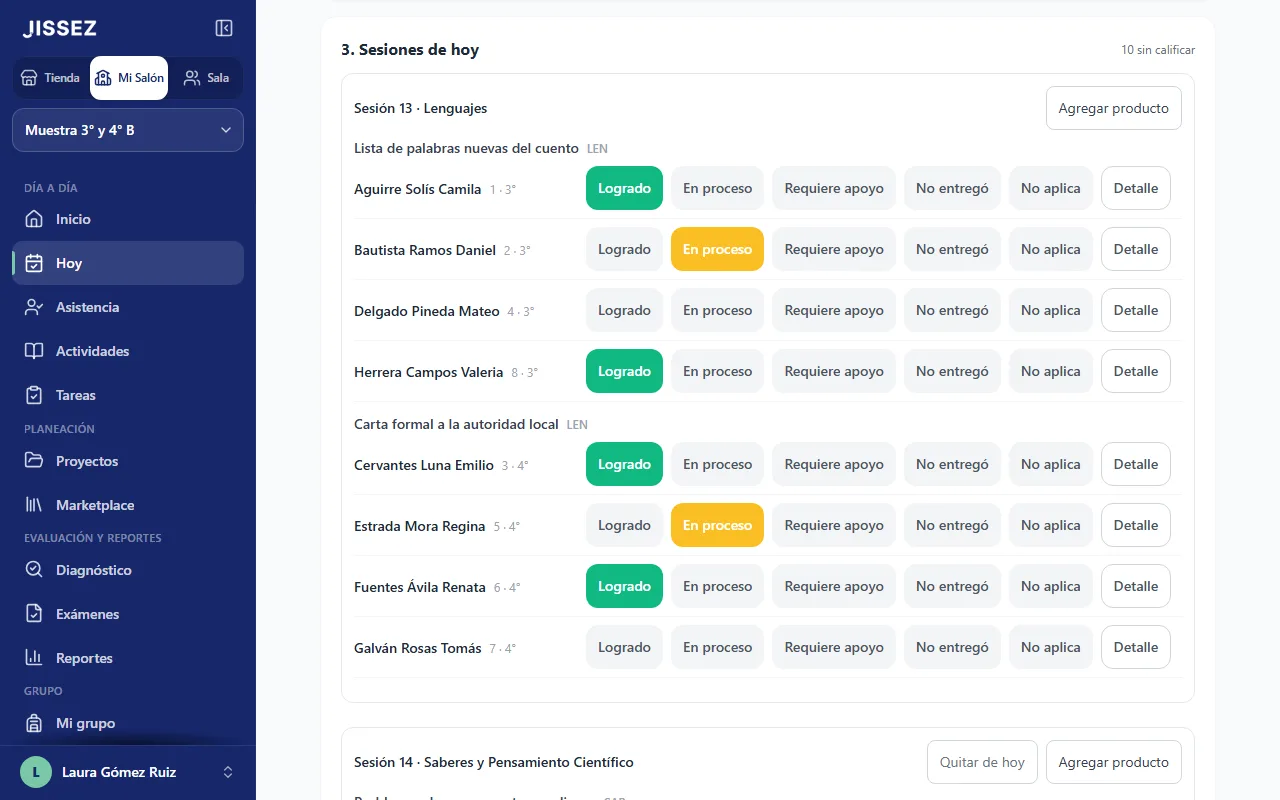
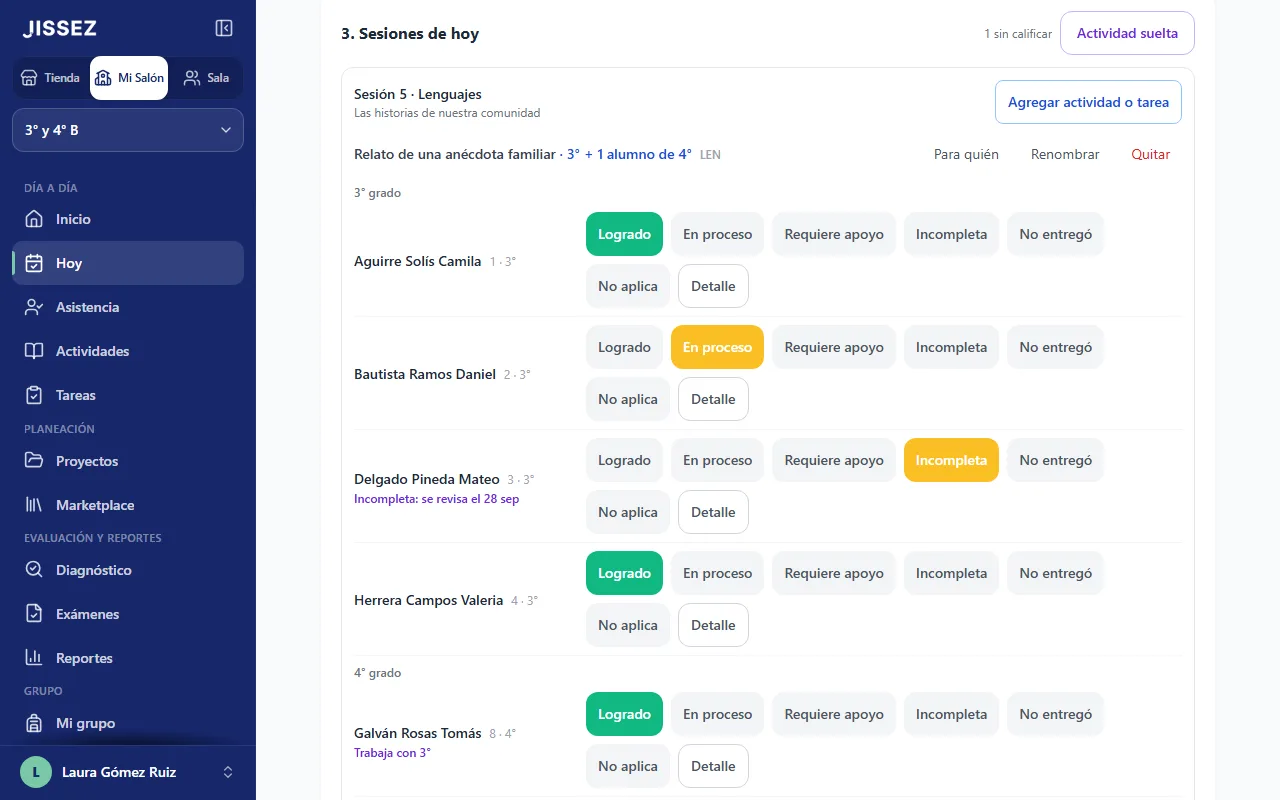
Privacidad y terminos con los textos aprobados por Jorge el 26-sep (examenes y Para quien en los datos del alumno, camara, cola sin senal, cada cuenta ve solo lo suyo, calificacion oficial en el SIGED); presentacion: escala de su grado, en Hoy o en Examenes, familia, Incompleta, comillas latinas, do

diff --git a/tienda/conoce-mi-salon.html b/tienda/conoce-mi-salon.html
@@ -124,7 +124,7 @@
 			<div class="bg-paper border border-line rounded-2xl p-5">
 				<span class="w-11 h-11 rounded-xl bg-gisMenta/25 text-action-dark flex items-center justify-center"><i data-lucide="book-open-check" class="w-5 h-5"></i></span>
 				<h3 class="mt-4 font-bold text-lg text-ink">Hecha para la NEM</h3>
-				<p class="mt-1.5 text-sm text-mute">Campos formativos, PDA por grado y la escala de calificación oficial de la SEP para cada grado.</p>
+				<p class="mt-1.5 text-sm text-mute">Campos formativos, PDA por grado y, para cada alumno, la escala de su grado.</p>
 			</div>
 			<div class="bg-paper border border-line rounded-2xl p-5">
 				<span class="w-11 h-11 rounded-xl bg-gisCoral/25 text-gisCoral flex items-center justify-center"><i data-lucide="layers" class="w-5 h-5"></i></span>
@@ -134,12 +134,12 @@
 			<div class="bg-paper border border-line rounded-2xl p-5">
 				<span class="w-11 h-11 rounded-xl bg-gisCielo/25 text-board flex items-center justify-center"><i data-lucide="wifi-off" class="w-5 h-5"></i></span>
 				<h3 class="mt-4 font-bold text-lg text-ink">Aguanta la mala señal</h3>
-				<p class="mt-1.5 text-sm text-mute">Si la señal se va mientras capturas en Hoy, lo que marcas se guarda en tu tablet y se envía solo al volver.</p>
+				<p class="mt-1.5 text-sm text-mute">Si la señal se va mientras capturas en Hoy o en Exámenes, lo que marcas se guarda en tu tablet y se envía solo al volver.</p>
 			</div>
 			<div class="bg-paper border border-line rounded-2xl p-5">
 				<span class="w-11 h-11 rounded-xl bg-gisAmarillo/25 text-board flex items-center justify-center"><i data-lucide="smartphone" class="w-5 h-5"></i></span>
 				<h3 class="mt-4 font-bold text-lg text-ink">Se instala como app</h3>
-				<p class="mt-1.5 text-sm text-mute">Con el nombre "Jissez MS" en tu pantalla de inicio. Al abrirla, entras directo a Hoy.</p>
+				<p class="mt-1.5 text-sm text-mute">Con el nombre «Jissez MS» en tu pantalla de inicio. Al abrirla, entras directo a Hoy.</p>
 			</div>
 		</div>
 	</div>
@@ -177,7 +177,7 @@
 			<article class="bg-white border border-line rounded-2xl p-5">
 				<span class="w-11 h-11 rounded-xl bg-board/8 text-board flex items-center justify-center"><i data-lucide="file-text" class="w-5 h-5"></i></span>
 				<h3 class="mt-4 font-bold text-lg text-ink">Boleta y reportes</h3>
-				<p class="mt-1.5 text-sm text-mute">Calificación propuesta con la escala oficial, que tú confirmas; boleta imprimible, presentación para la junta y Excel.</p>
+				<p class="mt-1.5 text-sm text-mute">Calificación propuesta de cada alumno con la escala de su grado, que tú confirmas; boleta imprimible, presentación para la junta y Excel.</p>
 			</article>
 			<article class="bg-white border border-line rounded-2xl p-5">
 				<span class="w-11 h-11 rounded-xl bg-board/8 text-board flex items-center justify-center"><i data-lucide="list-todo" class="w-5 h-5"></i></span>
@@ -212,17 +212,17 @@
 				<div>
 					<span class="w-11 h-11 rounded-xl bg-gisMenta/25 text-action-dark flex items-center justify-center"><i data-lucide="list-plus" class="w-5 h-5"></i></span>
 					<h4 class="mt-3 font-bold text-ink">Actividades sueltas</h4>
-					<p class="mt-1.5 text-sm text-mute">¿Improvisaste una actividad o una tarea? Agrégala en Hoy sin proyecto: se guarda en "Actividades del trimestre", cuenta para la boleta y después puedes pasarla a un proyecto del mismo trimestre.</p>
+					<p class="mt-1.5 text-sm text-mute">¿Improvisaste una actividad o una tarea? Agrégala en Hoy sin proyecto: se guarda en «Actividades del trimestre», cuenta para la boleta y después puedes pasarla a un proyecto del mismo trimestre.</p>
 				</div>
 				<div>
 					<span class="w-11 h-11 rounded-xl bg-gisCielo/25 text-board flex items-center justify-center"><i data-lucide="user-check" class="w-5 h-5"></i></span>
 					<h4 class="mt-3 font-bold text-ink">¿Para quién?</h4>
-					<p class="mt-1.5 text-sm text-mute">Cada actividad o tarea es para todo el grupo, para uno o varios grados o para los alumnos que marques, y eliges con qué grado trabajan. Para la boleta, cada alumno sigue en su grado.</p>
+					<p class="mt-1.5 text-sm text-mute">Cada actividad o tarea es para todo el grupo, para uno o varios grados o para los alumnos que marques. Si marcas alumnos, eliges con qué grado trabajan; para la boleta, cada alumno sigue en su grado.</p>
 				</div>
 				<div>
 					<span class="w-11 h-11 rounded-xl bg-gisAmarillo/25 text-board flex items-center justify-center"><i data-lucide="hourglass" class="w-5 h-5"></i></span>
 					<h4 class="mt-3 font-bold text-ink">Incompleta</h4>
-					<p class="mt-1.5 text-sm text-mute">Si un alumno no terminó en clase, márcala Incompleta: Hoy te la muestra el siguiente día de clase, según el calendario de la SEP y los ajustes de tu grupo, y al revisarla vale el nivel que logró. Las tareas, igual: se revisan el siguiente día de clase, salvo que elijas otro día.</p>
+					<p class="mt-1.5 text-sm text-mute">Si un alumno no terminó una actividad en clase, márcala Incompleta: Hoy te la muestra el siguiente día de clase, según el calendario de la SEP y los ajustes de tu grupo, y al revisarla vale el nivel que logró. Las tareas, igual: se revisan el siguiente día de clase, salvo que elijas otro día.</p>
 				</div>
 			</div>
 		</div>
@@ -231,11 +231,11 @@
 		<div class="mt-16 lg:mt-20 space-y-16 lg:space-y-20">
 			<div class="reveal grid lg:grid-cols-[1.15fr_.85fr] gap-8 lg:gap-12 items-center">
 				<figure class="ms-captura">
-					<img src="../presentacion/img/ms-calificar-1280.webp" srcset="../presentacion/img/ms-calificar-640.webp 640w, ../presentacion/img/ms-calificar-1280.webp 1280w" sizes="(min-width: 1024px) 640px, 100vw" width="1280" height="800" loading="lazy" decoding="async" alt="Sesiones de hoy en Mi Salón: cada alumno con los botones Logrado, En proceso y Requiere apoyo en un trabajo de su grado">
+					<img src="../presentacion/img/ms-calificar-1280.webp" srcset="../presentacion/img/ms-calificar-640.webp 640w, ../presentacion/img/ms-calificar-1280.webp 1280w" sizes="(min-width: 1024px) 640px, 100vw" width="1280" height="800" loading="lazy" decoding="async" alt="Sesiones de hoy en Mi Salón: cada alumno con los botones Logrado, En proceso, Requiere apoyo e Incompleta en el trabajo de su grado, el botón Para quién y un alumno de 4° que trabaja con 3°">
 				</figure>
 				<div>
 					<h3 class="font-black text-ink tracking-tight text-[clamp(1.5rem,2.6vw,2rem)] leading-tight">Califica mientras recorres las bancas.</h3>
-					<p class="mt-3 text-lg text-mute">En "Sesiones de hoy" aparece un trabajo por grado de cada sesión, que puedes renombrar, y las actividades que agregues en plena clase. Tocas Logrado, En proceso o Requiere apoyo, y cada calificación deja evidencia en los PDA que evalúa. Se guarda al tocar, sin botón de guardar.</p>
+					<p class="mt-3 text-lg text-mute">En «Sesiones de hoy» aparece un trabajo por grado de cada sesión, que puedes renombrar, y las actividades que agregues en plena clase. Tocas Logrado, En proceso o Requiere apoyo, y cada calificación deja evidencia en los PDA que evalúa. Se guarda al tocar, sin botón de guardar.</p>
 				</div>
 			</div>
 			<div class="reveal grid lg:grid-cols-[.85fr_1.15fr] gap-8 lg:gap-12 items-center">
@@ -320,16 +320,16 @@
 					<h4 class="font-bold flex items-center gap-2"><i data-lucide="tablet" class="w-5 h-5 text-gisMenta"></i> Android</h4>
 					<ol class="mt-3 space-y-2 text-[15px] text-white/85 list-decimal pl-5">
 						<li>En Chrome o Samsung Internet, entra a Mi Salón con tu cuenta.</li>
-						<li>En Inicio, al final, toca "Instalar la app" y sigue los pasos. También está en el menú de tu cuenta.</li>
-						<li>Abre el ícono "Jissez MS". Si lo mantienes presionado, salen sus atajos: "Pasar lista" abre la asistencia de hoy, "Calificar trabajos" abre las sesiones de hoy y "Reportes", los reportes del grupo.</li>
+						<li>En Inicio, al final, toca «Instalar la app» y sigue los pasos. También está en el menú de tu cuenta.</li>
+						<li>Abre el ícono «Jissez MS». Si lo mantienes presionado, salen sus atajos: «Pasar lista» abre la asistencia de hoy, «Calificar trabajos» abre las sesiones de hoy y «Reportes», los reportes del grupo.</li>
 					</ol>
 				</div>
 				<div class="rounded-2xl bg-white/[.06] border border-white/15 p-5">
 					<h4 class="font-bold flex items-center gap-2"><i data-lucide="share" class="w-5 h-5 text-gisMenta"></i> iPad o iPhone</h4>
 					<ol class="mt-3 space-y-2 text-[15px] text-white/85 list-decimal pl-5">
 						<li>En Safari, abre jissez.com/salon/hoy.</li>
-						<li>Toca Compartir (el cuadro con la flecha hacia arriba) y elige "Agregar a inicio" o "Agregar a pantalla de inicio", según tu versión. Si aparece "Abrir como app web", déjalo activado.</li>
-						<li>Abre "Jissez MS" desde tu pantalla de inicio e inicia sesión una vez dentro de la app.</li>
+						<li>Toca Compartir (el cuadro con la flecha hacia arriba) y elige «Agregar a inicio» o «Agregar a pantalla de inicio», según tu versión. Si aparece «Abrir como app web», déjalo activado.</li>
+						<li>Abre «Jissez MS» desde tu pantalla de inicio e inicia sesión una vez dentro de la app.</li>
 					</ol>
 				</div>
 			</div>
@@ -401,7 +401,7 @@
 	<div class="max-w-content mx-auto px-4 sm:px-6 py-10 flex flex-col sm:flex-row sm:items-center gap-4">
 		<span class="w-12 h-12 rounded-2xl bg-board/8 text-board flex items-center justify-center shrink-0"><i data-lucide="lock" class="w-6 h-6"></i></span>
 		<p class="text-ink text-[16px] leading-relaxed">
-			<strong>En Mi Salón, cada cuenta ve solo lo suyo:</strong> los datos de tu grupo se abren con tu cuenta y otras maestras no los ven. Al revisar un examen con la cámara, la foto de la hoja se lee en tu tablet y no se sube; solo se guardan las respuestas. Lo que Mi Salón prepara para una familia solo lleva a su hija o hijo. La imagen y el texto de las listas de cooperación y materiales no llevan nombres, y la presentación para la junta no los muestra salvo que tú lo actives. El rol de aseo sí lleva los nombres de los alumnos a quienes les toca: tú decides con quién lo compartes.
+			<strong>En Mi Salón, cada cuenta ve solo lo suyo:</strong> los datos de tu grupo se abren con tu cuenta y tus colegas no los ven. Al revisar un examen con la cámara, la foto de la hoja se lee en tu tablet y no se sube; solo se guardan las respuestas. La boleta, el reporte y los mensajes que Mi Salón prepara para una familia solo llevan a su hija o hijo. La imagen y el texto de las listas de cooperación y materiales no llevan nombres, y la presentación para la junta no los muestra salvo que tú lo actives. El rol de aseo sí lleva los nombres de los alumnos a quienes les toca: tú decides con quién lo compartes.
 			<a href="privacidad.html" class="inline-flex items-center min-h-[44px] font-semibold text-board underline underline-offset-4 hover:no-underline">Aviso de privacidad</a>
 		</p>
 	</div>
@@ -421,15 +421,15 @@
 			</details>
 			<details class="reveal bg-white border border-line rounded-2xl px-5">
 				<summary class="flex items-center justify-between gap-4 py-5 font-bold text-ink text-lg">¿Sirve para grupos multigrado? <i data-lucide="plus" class="faq-plus w-5 h-5 text-board shrink-0"></i></summary>
-				<p class="pb-5 text-mute leading-relaxed">Sí. Un grupo puede tener varios grados. Cada actividad es para todo el grupo, para uno o varios grados o para los alumnos que marques; así, un alumno que va a otro ritmo puede trabajar con los PDA de otro grado. Para la boleta sigue en su grado, con la escala de su grado.</p>
+				<p class="pb-5 text-mute leading-relaxed">Sí. Un grupo puede tener varios grados. Cada actividad es para todo el grupo, para uno o varios grados o para los alumnos que marques. Si marcas alumnos, eliges con qué grado trabajan: así, un alumno que va a otro ritmo puede trabajar con los PDA de otro grado. Para la boleta sigue en su grado, con la escala de su grado.</p>
 			</details>
 			<details class="reveal bg-white border border-line rounded-2xl px-5">
 				<summary class="flex items-center justify-between gap-4 py-5 font-bold text-ink text-lg">¿En qué aparatos funciona? <i data-lucide="plus" class="faq-plus w-5 h-5 text-board shrink-0"></i></summary>
-				<p class="pb-5 text-mute leading-relaxed">En el navegador de tu tablet, computadora o celular. Está pensada para la tablet en horizontal, con botones grandes. En Android, iPad y iPhone puedes instalarla como app ("Jissez MS").</p>
+				<p class="pb-5 text-mute leading-relaxed">En el navegador de tu tablet, computadora o celular. Está pensada para la tablet en horizontal, con botones grandes. En Android, iPad y iPhone puedes instalarla como app («Jissez MS»).</p>
 			</details>
 			<details class="reveal bg-white border border-line rounded-2xl px-5">
 				<summary class="flex items-center justify-between gap-4 py-5 font-bold text-ink text-lg">¿Quién ve mis datos y los de mis alumnos? <i data-lucide="plus" class="faq-plus w-5 h-5 text-board shrink-0"></i></summary>
-				<p class="pb-5 text-mute leading-relaxed">En Mi Salón, solo tu cuenta: la base de datos le da a cada cuenta únicamente lo suyo, así que otras maestras no ven tu grupo. Jissez los guarda para darte el servicio y no los usa para publicidad. No pedimos la CURP. Las fotos de las hojas de respuestas se leen en tu tablet y no se suben. Los detalles están en el <a href="privacidad.html" class="font-semibold text-board underline underline-offset-4">aviso de privacidad</a>.</p>
+				<p class="pb-5 text-mute leading-relaxed">En Mi Salón, solo tu cuenta: la base de datos le da a cada cuenta únicamente lo suyo, así que tus colegas no ven tu grupo. Jissez los guarda para darte el servicio y no los usa para publicidad. No pedimos la CURP. Las fotos de las hojas de respuestas se leen en tu tablet y no se suben. Los detalles están en el <a href="privacidad.html" class="font-semibold text-board underline underline-offset-4">aviso de privacidad</a>.</p>
 			</details>
 			<details class="reveal bg-white border border-line rounded-2xl px-5">
 				<summary class="flex items-center justify-between gap-4 py-5 font-bold text-ink text-lg">¿Necesito comprar planeaciones? <i data-lucide="plus" class="faq-plus w-5 h-5 text-board shrink-0"></i></summary>
@@ -441,7 +441,7 @@
 			</details>
 			<details class="reveal bg-white border border-line rounded-2xl px-5">
 				<summary class="flex items-center justify-between gap-4 py-5 font-bold text-ink text-lg">¿La calificación la pone la app? <i data-lucide="plus" class="faq-plus w-5 h-5 text-board shrink-0"></i></summary>
-				<p class="pb-5 text-mute leading-relaxed">No. Mi Salón la propone con lo que capturaste y la escala oficial; tú la revisas y la confirmas. Sin tu confirmación la boleta no se cierra. Es un complemento de la boleta oficial (SIGED), no la sustituye.</p>
+				<p class="pb-5 text-mute leading-relaxed">No. Mi Salón propone la de cada alumno con lo que capturaste y la escala de su grado; tú la revisas y la confirmas. Sin tu confirmación la boleta no se cierra. Es un complemento de la boleta oficial (SIGED), no la sustituye.</p>
 			</details>
 		</div>
 	</div>

diff --git a/tienda/privacidad.html b/tienda/privacidad.html
@@ -46,7 +46,7 @@
 		<p><strong>De usted (docente o comprador):</strong> nombre, correo electrónico, contraseña (guardada cifrada), historial de compras y, si usa proyectos personalizados, lo que escriba en el formulario de pedido. Si usa Mi Salón, además: estado donde da clases, escuela, grupos y grados que atiende y, si lo indica, si prefiere el trato de profesora o profesor. Si solicita factura, los datos fiscales que nos proporcione. Si pide que le avisemos cuando abra una sección de Jissez (por ejemplo, la Sala de Maestros), guardamos su cuenta, esa petición y la fecha en que la hizo. Como en cualquier sitio web, nuestros proveedores reciben la dirección IP de su conexión al cargar las páginas.</p>
 		<p><strong>De sus alumnos y sus familias, solo si usa Mi Salón.</strong> Usted, como docente, es quien decide qué datos de sus alumnos captura y para qué; Jissez solo los guarda y los procesa por encargo suyo, para darle la plataforma. Estos datos son:</p>
 		<ul>
-			<li><strong>Del alumno:</strong> nombre, grado, número de lista, asistencia, calificaciones, evidencias de trabajo, participación y conducta, diagnóstico (cuaderno, lectura y matemáticas), las observaciones que usted escriba y, si usted los captura, su fecha de nacimiento y su género (niña, niño o "prefiero no decir").</li>
+			<li><strong>Del alumno:</strong> nombre, grado, número de lista, asistencia, calificaciones, evidencias de trabajo, participación y conducta, diagnóstico (cuaderno, lectura y matemáticas), las observaciones que usted escriba, las respuestas y los resultados de los exámenes que usted captura (incluido si no presentó), a qué actividades se le asignó ("¿Para quién?") y, si usted los captura, su fecha de nacimiento y su género (niña, niño o "prefiero no decir").</li>
 			<li><strong>De su madre, padre o tutor, si usted los captura:</strong> nombre y número de teléfono.</li>
 			<li><strong>Incidencias del salón:</strong> lo que usted registre sobre un suceso (asunto, fecha y hora, alumnos involucrados, descripción y acuerdos).</li>
 			<li><strong>De la escuela de cada grupo:</strong> el nombre de la escuela y el del director o directora, si usted los captura.</li>
@@ -54,6 +54,7 @@
 			<li><strong>Listas de cooperación y materiales del grupo, si usted las usa:</strong> lo que usted registre de cada alumno en cada lista: si entregó (por ejemplo, un material o un permiso firmado), un texto breve (por ejemplo, una talla) y cuánto aportó en pesos.</li>
 		</ul>
 		<p>Todos estos datos son opcionales, salvo el nombre y el grado del alumno. No pedimos la CURP.</p>
+		<p><strong>Lo que se procesa y se guarda en su dispositivo.</strong> Si revisa las hojas de respuestas con la cámara, la imagen se procesa solo en su dispositivo: no se guarda ni se envía a Jissez; solo se guardan las respuestas leídas. Si pierde la señal mientras captura en Hoy o en Exámenes, lo capturado se guarda temporalmente en su dispositivo, ligado a su cuenta, y se borra al enviarse. Si comparte el dispositivo, cierre sesión al terminar.</p>
 		<p><strong>Quién es responsable de los datos de sus alumnos.</strong> Usted es responsable de los datos de sus alumnos y de sus familias que captura en Mi Salón: los obtiene como parte de su labor docente y decide para qué los usa. Jissez actúa como encargado: los guarda y los procesa solo para prestarle el servicio, siguiendo sus instrucciones, y no los usa para nada más. Le recomendamos capturar solo lo que necesite para su trabajo con el grupo y avisar a las familias que lleva este registro.</p>
 		<p><strong>No recabamos datos de tarjeta</strong> (los procesa Mercado Pago) <strong>ni datos sensibles.</strong> Le pedimos no escribir en Mi Salón información de salud, discapacidad, diagnósticos médicos o psicológicos, religión, origen étnico, situación familiar delicada u otros datos sensibles de sus alumnos o de sus familias. En las incidencias y observaciones escriba hechos concretos del salón.</p>
 
@@ -62,7 +63,7 @@
 		<p>En Mi Salón, además: mostrarle la ficha de cada alumno; mostrarle los próximos cumpleaños de sus alumnos (en Calendario y en Inicio), con la fecha de nacimiento que usted captura; abrir una conversación de WhatsApp con la madre, padre o tutor cuando usted toca el botón "Escribir por WhatsApp" (Mi Salón no envía mensajes por su cuenta: solo abre WhatsApp en su dispositivo con el número y un saludo que usted puede cambiar antes de enviarlo); contar cuántas niñas y cuántos niños tiene su grupo; generar el documento de una incidencia para que usted lo imprima y lo firmen usted, el director o directora y la familia; y generar el rol de aseo como imagen, texto o impresión para que usted lo comparta. La imagen del rol de aseo lleva los nombres de los alumnos: usted decide con quién la comparte.</p>
 		<p>También, llevar las listas de cooperación y materiales del grupo, para organizar el salón. En la imagen y el texto de una lista para las familias, <strong>Mi Salón no pone nombres de alumnos</strong>: solo cuántos entregaron o completaron su aportación, cuánto se ha reunido y cuánto falta. La descripción de la lista y los nombres de sus columnas son texto que usted escribe y salen tal cual en esa imagen y ese texto; le pedimos no escribir en ellos nombres de alumnos. Si usted quiere recordarle algo a una familia, el botón "Recordar por WhatsApp" abre en su dispositivo una conversación privada de WhatsApp con esa familia, con un mensaje que usted puede cambiar antes de enviarlo. La versión impresa con nombres es solo para usted.</p>
 		<p><strong>Finalidad secundaria</strong> (puede oponerse sin que afecte el servicio, escribiendo a <a href="mailto:soporte@jissez.com" class="font-semibold" style="color:#1e3a8a">soporte@jissez.com</a>): enviarle novedades o promociones.</p>
-		<p>No vendemos, no rentamos ni compartimos sus datos, ni los de sus alumnos o sus familias, con nadie para fines propios, y no los usamos para publicidad. Solo usted, con su cuenta, puede verlos en Mi Salón.</p>
+		<p>No vendemos, no rentamos ni compartimos sus datos, ni los de sus alumnos o sus familias, con nadie para fines propios, y no los usamos para publicidad. En Mi Salón, cada cuenta ve solo lo suyo. Jissez no los consulta, salvo que usted nos pida ayuda o lo exija la ley.</p>
 
 		<h2>4. Con quién se comparten</h2>
 		<p>Solo con proveedores que nos ayudan a operar el servicio y que no pueden usarlos para otros fines:</p>
@@ -78,7 +79,7 @@
 		<p>Los datos de sus alumnos y de sus familias (incluidos la ficha, las incidencias, el calendario, el rol de aseo y las listas) no se envían a Meta ni a Anthropic, salvo las frases sin nombre que se describen arriba, en este mismo punto, para la redacción de boletas con inteligencia artificial. Cuando usted toca "Escribir por WhatsApp" o "Recordar por WhatsApp", o comparte el rol de aseo o la imagen de una lista, es su propio dispositivo el que abre WhatsApp; Jissez no le envía a WhatsApp ni el número del tutor, ni el mensaje, ni la imagen.</p>
 
 		<h2>5. Tecnologías de rastreo</h2>
-		<p>El Sitio guarda en su navegador lo necesario para mantener su sesión iniciada. En la tienda usamos el <strong>píxel de Meta</strong> (Facebook) para medir nuestros anuncios; puede colocar cookies de Meta. Las pantallas de Mi Salón <strong>no</strong> usan el píxel; las páginas de la tienda sí, incluida la de inicio de sesión por la que se entra a Mi Salón. Puede bloquear esas cookies desde su navegador sin que el Sitio deje de funcionar, u oponerse escribiéndonos.</p>
+		<p>El Sitio guarda en su navegador lo necesario para mantener su sesión iniciada y, además, lo que usted capture sin señal en Mi Salón, solo hasta que se envía (ver punto 2). En la tienda usamos el <strong>píxel de Meta</strong> (Facebook) para medir nuestros anuncios; puede colocar cookies de Meta. Las pantallas de Mi Salón <strong>no</strong> usan el píxel; las páginas de la tienda sí, incluida la de inicio de sesión por la que se entra a Mi Salón. Puede bloquear esas cookies desde su navegador sin que el Sitio deje de funcionar, u oponerse escribiéndonos.</p>
 
 		<h2>6. Sus derechos (ARCO)</h2>
 		<p>Puede pedir <strong>Acceso</strong> a sus datos, su <strong>Rectificación</strong>, su <strong>Cancelación</strong> u <strong>Oposición</strong> a su uso, así como revocar su consentimiento, escribiendo a <a href="mailto:soporte@jissez.com" class="font-semibold" style="color:#1e3a8a">soporte@jissez.com</a> con su nombre, el correo de su cuenta y lo que solicita. Le pediremos acreditar su identidad (o su representación, si actúa en nombre de otra persona) antes de entregar o cambiar datos. Le responderemos en un máximo de 20 días y, si procede, lo haremos efectivo en los 15 días siguientes.</p>

diff --git a/pruebas/conoce-mi-salon-textos.test.js b/pruebas/conoce-mi-salon-textos.test.js
@@ -14,6 +14,10 @@
 	- Instalar en iPhone/iPad: "Abrir como app web" solo si aparece; atajos de Android con su
 	  nombre real (salon.webmanifest) y lo que abren (js/hoy.js irASeccion).
 	- Funciones nuevas nombradas en la página: existen en el código.
+	- B3 (2026-09-26): "la escala de su grado", mala señal "en Hoy o en Exámenes", la boleta de una
+	  familia solo lleva a su hija o hijo, Incompleta de una actividad, "eliges con qué grado
+	  trabajan" solo al marcar alumnos, "docentes" (nunca "maestra" o "maestro") y comillas
+	  latinas; y los textos aprobados del aviso de privacidad y los términos.
 
 	node pruebas/conoce-mi-salon-textos.test.js
 */
@@ -91,9 +95,9 @@ ok("la página pinta el encabezado desde ConoceMiSalon.encabezado", /ConoceMiSal
 
 // ── 6. Instalar: iOS exacto y atajos con su nombre real ──────────────────────
 ok("iOS: 'Abrir como app web' solo si aparece; 'Agregar a inicio'", [
-	/Si aparece "Abrir como app web", déjalo activado\./.test(texto),
-	/deja activado "Abrir como app web"/.test(texto),
-	/"Agregar a inicio" o "Agregar a pantalla de inicio"/.test(texto),
+	/Si aparece «Abrir como app web», déjalo activado\./.test(texto),
+	/deja activado «Abrir como app web»/.test(texto),
+	/«Agregar a inicio» o «Agregar a pantalla de inicio»/.test(texto),
 	/inicia sesión una vez dentro de la app/.test(texto),
 ], [true, false, true, true]);
 ok("respaldo: la hoja de instrucciones de la app dice lo mismo ('Si aparece')", /Si aparece, deja activado <strong>Abrir como app web<\/strong>/.test(leer("js/app-instalada.js")), true);
@@ -105,9 +109,9 @@ ok("manifest: los tres atajos", atajos, [
 	{ nombre: "Reportes", hash: null, ruta: "/salon/reportes" },
 ]);
 ok("la página nombra cada atajo como el manifest y dice qué abre", [
-	/"Pasar lista" abre la asistencia de hoy/.test(texto),
-	/"Calificar trabajos" abre las sesiones de hoy/.test(texto),
-	/"Reportes", los reportes del grupo/.test(texto),
+	/«Pasar lista» abre la asistencia de hoy/.test(texto),
+	/«Calificar trabajos» abre las sesiones de hoy/.test(texto),
+	/«Reportes», los reportes del grupo/.test(texto),
 ], [true, true, true]);
 const hoyHtml = leer("hoy.html");
 ok("respaldo: Hoy salta a #asistencia y #sesiones (irASeccion) y esas secciones son Asistencia y Sesiones de hoy", [
@@ -118,8 +122,8 @@ ok("respaldo: Hoy salta a #asistencia y #sesiones (irASeccion) y esas secciones 
 
 // ── 7. Funciones nuevas nombradas en la página: existen en el código ─────────
 ok("la página nombra actividades sueltas, ¿Para quién?, Incompleta y Actividades del trimestre", [
-	/Actividades sueltas/.test(texto), /¿Para quién\?/.test(texto), /márcala Incompleta/.test(texto), /"Actividades del trimestre"/.test(texto),
-	/pasarla a un proyecto del mismo trimestre/.test(texto), /eliges con qué grado trabajan/.test(texto),
+	/Actividades sueltas/.test(texto), /¿Para quién\?/.test(texto), /márcala Incompleta/.test(texto), /«Actividades del trimestre»/.test(texto),
+	/pasarla a un proyecto del mismo trimestre/.test(texto), /Si marcas alumnos, eliges con qué grado trabajan/.test(texto),
 ], [true, true, true, true, true, true]);
 const hoyJs = leer("js/hoy.js");
 ok("respaldo: Hoy agrega actividades sueltas y las pasa a un proyecto", [/id="btnSuelta"[^>]*>Actividad suelta</.test(hoyHtml), /Pasar a un proyecto/.test(hoyJs)], [true, true]);
@@ -139,6 +143,54 @@ ok("respaldo: exámenes con dos caminos y cuatro tipos de pregunta", [
 	/opción múltiple \(sugerida: se revisa sola\), verdadero o falso,\s*completar y abierta/.test(leer("js/examen-propio.js")),
 	/Capturar tocando/.test(leer("js/examen-camara.js")),
 ], [true, true, true, true]);
+
+// ── 8. B3 (textos aprobados por Jorge el 2026-09-26) ─────────────────────────
+// Todo el texto visible de la página (cuerpo, con pie; sin comentarios, scripts, estilos ni atributos)
+const visible = sinComentarios.split(/<body[^>]*>/)[1].replace(/<script[\s\S]*?<\/script>|<style[\s\S]*?<\/style>/g, " ")
+	.replace(/<[^>]+>/g, " ").replace(/\s+/g, " ");
+ok("escala: ninguna 'escala oficial' y 'la escala de su grado' en las tres frases (más la de multigrado)", [
+	(visible.match(/escala oficial de la SEP/g) || []).length, (visible.match(/escala (de calificación )?oficial/g) || []).length,
+	(visible.match(/escala de su grado/g) || []).length,
+	/PDA por grado y, para cada alumno, la escala de su grado\./.test(visible),
+	/Calificación propuesta de cada alumno con la escala de su grado, que tú confirmas;/.test(visible),
+	/Mi Salón propone la de cada alumno con lo que capturaste y la escala de su grado;/.test(visible),
+], [0, 0, 4, true, true, true]);
+ok("mala señal: la tarjeta dice 'en Hoy o en Exámenes'", /Si la señal se va mientras capturas en Hoy o en Exámenes, lo que marcas se guarda en tu tablet/.test(visible), true);
+ok("familias: la boleta, el reporte y los mensajes solo llevan a su hija o hijo", [
+	/La boleta, el reporte y los mensajes que Mi Salón prepara para una familia solo llevan a su hija o hijo\./.test(visible),
+	/Lo que Mi Salón prepara para una familia solo lleva a su hija o hijo/.test(visible),
+], [true, false]);
+ok("Incompleta: 'no terminó una actividad en clase'", /Si un alumno no terminó una actividad en clase, márcala Incompleta/.test(visible), true);
+// "¿Con qué grado trabajan?" solo sale en el modo de alumnos de ¿Para quién? (js/hoy.js construirParaQuien)
+const conGrado = visible.split(/(?<=[.?!])\s+/).filter((o) => /eliges con qué grado trabajan/.test(o));
+ok("'eliges con qué grado trabajan' solo en el modo de alumnos", [conGrado.length, conGrado.every((o) => /^Si marcas alumnos, eliges con qué grado trabajan/.test(o))], [2, true]);
+ok("respaldo: el grado con que trabajan solo se muestra con 'Alumnos que elijo'", /data-para='alumnos'[\s\S]{0,200}¿Con qué grado trabajan\?/.test(hoyJs) && /a\.classList\.toggle\("hidden", m !== "alumnos"\)/.test(hoyJs), true);
+ok("docentes: ni 'maestra' ni 'maestro' en el texto visible", visible.match(/\bmaestr[oa]s?\b/gi) || [], []);
+ok("comillas: solo latinas en el texto visible, parejas", [
+	(visible.match(/["“”]/g) || []).length, (visible.match(/«/g) || []).length === (visible.match(/»/g) || []).length, (visible.match(/«/g) || []).length > 0,
+], [0, true, true]);
+
+// Aviso de privacidad y términos (textos legales aprobados por Jorge el 2026-09-26)
+const privacidad = leer("tienda/privacidad.html");
+const terminos = leer("tienda/terminos.html");
+ok("privacidad: exámenes y ¿Para quién? entre los datos del alumno", [
+	/las respuestas y los resultados de los exámenes que usted captura \(incluido si no presentó\)/.test(privacidad),
+	/a qué actividades se le asignó \("¿Para quién\?"\)/.test(privacidad),
+], [true, true]);
+ok("privacidad: cámara y captura sin señal en el dispositivo", [
+	/Si revisa las hojas de respuestas con la cámara, la imagen se procesa solo en su dispositivo: no se guarda ni se envía a Jissez; solo se guardan las respuestas leídas\./.test(privacidad),
+	/Si pierde la señal mientras captura en Hoy o en Exámenes, lo capturado se guarda temporalmente en su dispositivo, ligado a su cuenta, y se borra al enviarse\. Si comparte el dispositivo, cierre sesión al terminar\./.test(privacidad),
+], [true, true]);
+ok("privacidad: el navegador guarda la sesión y lo capturado sin señal (ya no 'solo la sesión')", [
+	/lo necesario para mantener su sesión iniciada\./.test(privacidad),
+	/lo necesario para mantener su sesión iniciada y, además, lo que usted capture sin señal en Mi Salón/.test(privacidad),
+], [false, true]);
+ok("privacidad: cada cuenta ve solo lo suyo; Jissez no los consulta", [
+	/Solo usted, con su cuenta, puede verlos en Mi Salón\./.test(privacidad),
+	/En Mi Salón, cada cuenta ve solo lo suyo\. Jissez no los consulta, salvo que usted nos pida ayuda o lo exija la ley\./.test(privacidad),
+], [false, true]);
+ok("términos: la calificación oficial es la que se registra en el SIGED", /Las calificaciones que propone Mi Salón son una propuesta; la oficial es la que usted confirma y registra en el SIGED\./.test(terminos.split("<h2>10.")[1].split("<h2>11.")[0]), true);
+ok("fecha de actualización de los dos textos legales", [/Última actualización: 26 de septiembre de 2026/.test(privacidad), /Última actualización: 26 de septiembre de 2026/.test(terminos)], [true, true]);
 
 console.log(fallos === 0 ? "\nTODAS PASAN" : "\n" + fallos + " FALLAS");
 process.exit(fallos ? 1 : 0);

diff --git a/tienda/terminos.html b/tienda/terminos.html
@@ -34,7 +34,7 @@
 			<span class="text-ink font-medium">Términos y Condiciones</span>
 		</div>
 		<h1 class="font-black text-ink text-[clamp(1.8rem,3.5vw,2.6rem)] tracking-tight leading-tight">Términos y Condiciones de Uso</h1>
-		<p class="mt-2 text-mute">Última actualización: 25 de septiembre de 2026</p>
+		<p class="mt-2 text-mute">Última actualización: 26 de septiembre de 2026</p>
 	</div>
 </div>
 
@@ -88,7 +88,7 @@
 		<p>Usted es responsable de la confidencialidad de sus credenciales y de la actividad en su cuenta.</p>
 
 		<h2>10. Mi Salón y los datos de sus alumnos</h2>
-		<p>Mi Salón es una herramienta personal del docente para organizar su trabajo con su grupo. No es un sistema oficial de la escuela ni de la SEP.</p>
+		<p>Mi Salón es una herramienta personal del docente para organizar su trabajo con su grupo. No es un sistema oficial de la escuela ni de la SEP. Las calificaciones que propone Mi Salón son una propuesta; la oficial es la que usted confirma y registra en el SIGED.</p>
 		<p>Usted es responsable de los datos personales de sus alumnos y de sus familias que registra en Mi Salón: los obtiene como parte de su labor docente y decide para qué los usa. Jissez los trata solo como encargado: los guarda y los procesa únicamente para prestarle el servicio, siguiendo sus instrucciones, y no los usa para nada más. Los detalles están en nuestro <a href="privacidad.html" class="font-semibold" style="color:#1e3a8a">Aviso de Privacidad</a>.</p>
 
 		<h2>11. Modificaciones</h2>

diff --git a/pruebas/presentaciones.test.js b/pruebas/presentaciones.test.js
@@ -111,7 +111,7 @@ ok("la página pinta el beneficio desde ConoceMiSalon.beneficio y oculta la tarj
 const textoMs = htmlMs.replace(/<[^>]+>/g, " ").replace(/\s+/g, " ");
 ok("el titular ya no dice 'sin Excel' (la página ofrece exportar a Excel)", [/sin Excel/i.test(textoMs), /\bExcel\b/.test(textoMs)], [false, true]);
 ok("calendario: 'los ajustes de tu grupo', no 'de tu escuela'", [/ajustes de tu grupo/.test(textoMs), /ajustes de tu escuela/.test(textoMs)], [true, false]);
-ok("instalar: 'y sigue los pasos', no 'y acepta'", [/"Instalar la app" y sigue los pasos/.test(htmlMs), /y acepta\b/.test(textoMs)], [true, false]);
+ok("instalar: 'y sigue los pasos', no 'y acepta'", [/«Instalar la app» y sigue los pasos/.test(htmlMs), /y acepta\b/.test(textoMs)], [true, false]);
 // 2026-09-26 (Jorge): la importación de planeaciones de Jissez a Mi Salón va después del piloto;
 // hoy solo "próximamente" (pruebas/conoce-mi-salon-textos.test.js fija los textos nuevos)
 ok("no afirma que el catálogo de planeaciones está incluido", [/(puedes|o) usar planeaciones de Jissez/.test(textoMs), /import(a|as|ar) (uno|un proyecto) de las planeaciones/.test(textoMs), /(planeaciones|catálogo)[^.]*incluid/i.test(textoMs)], [false, false, false]);
